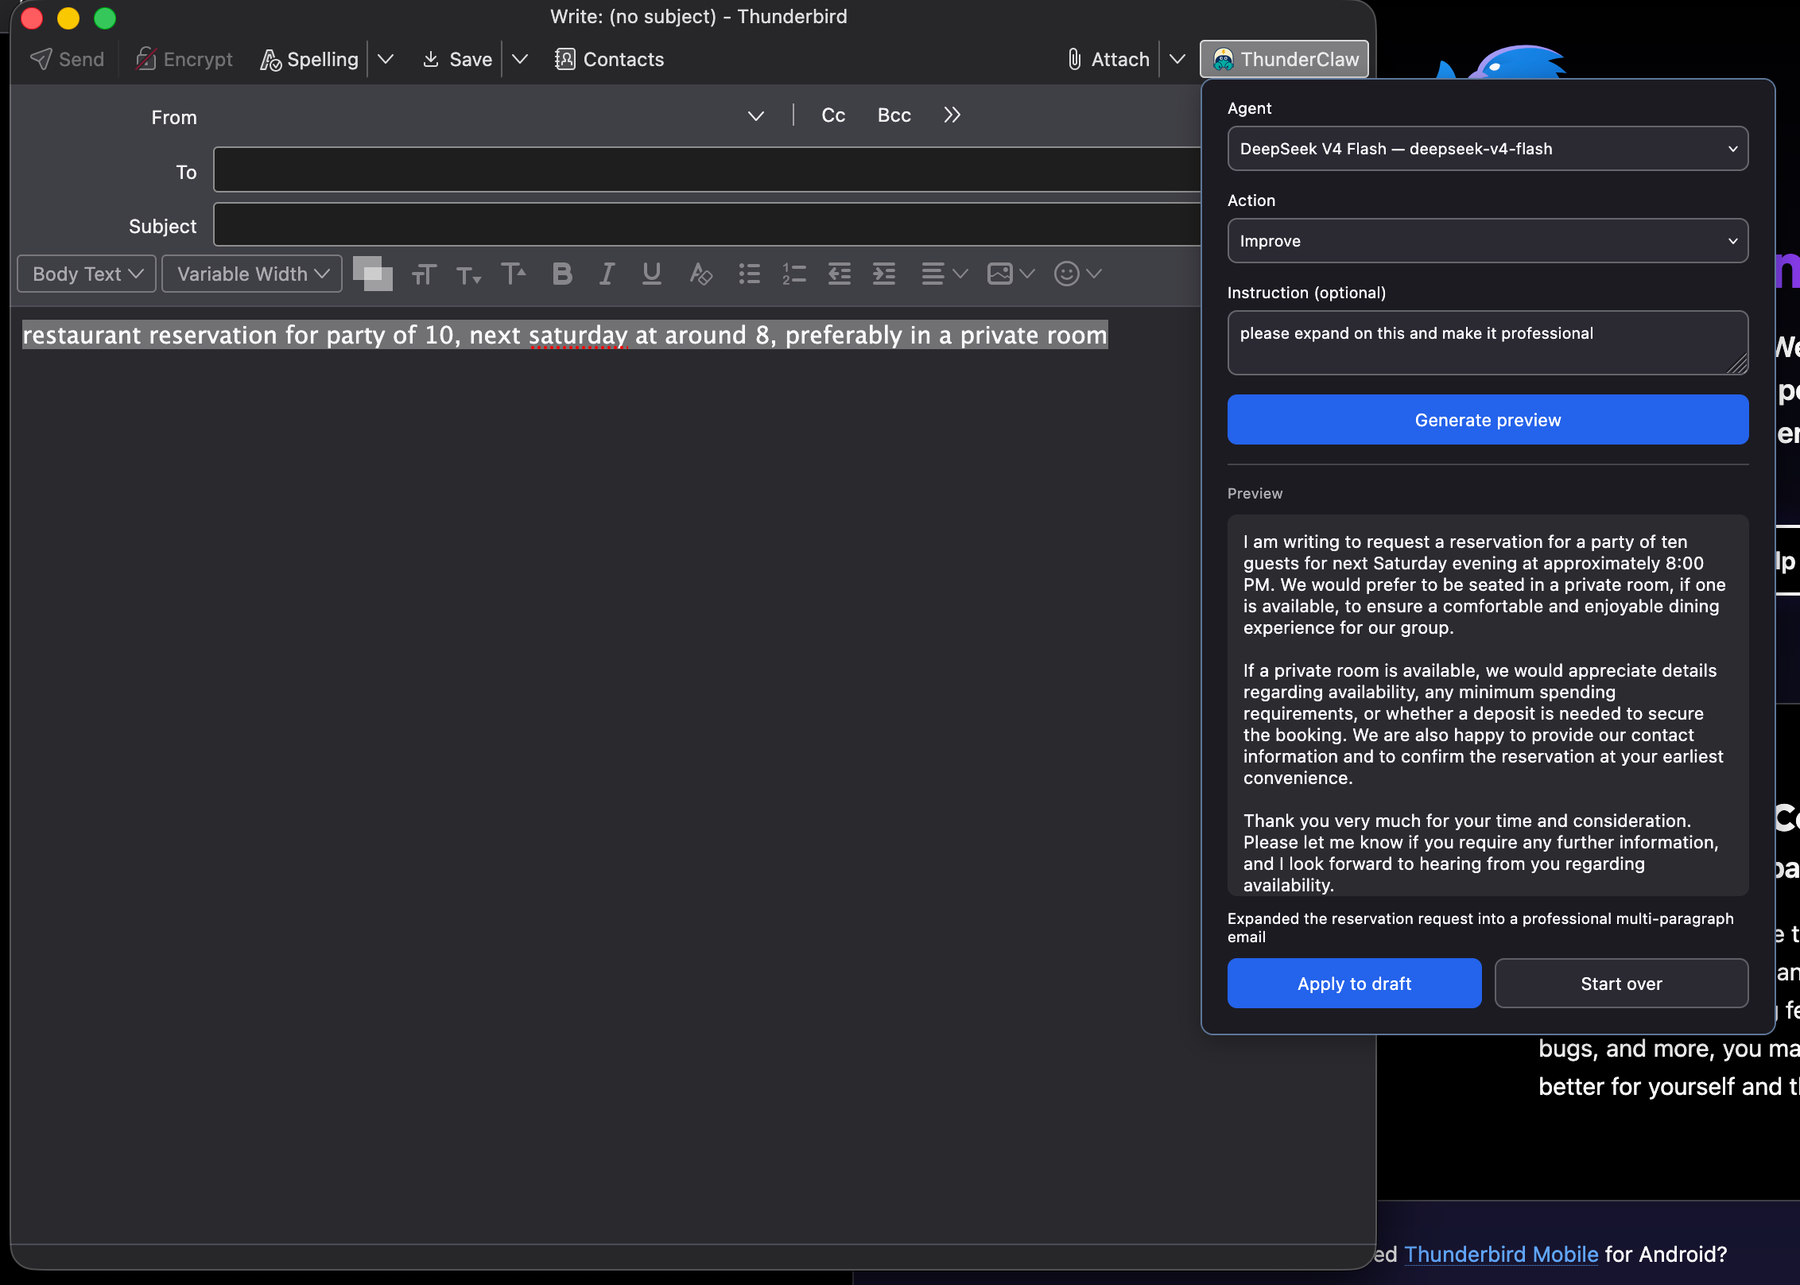
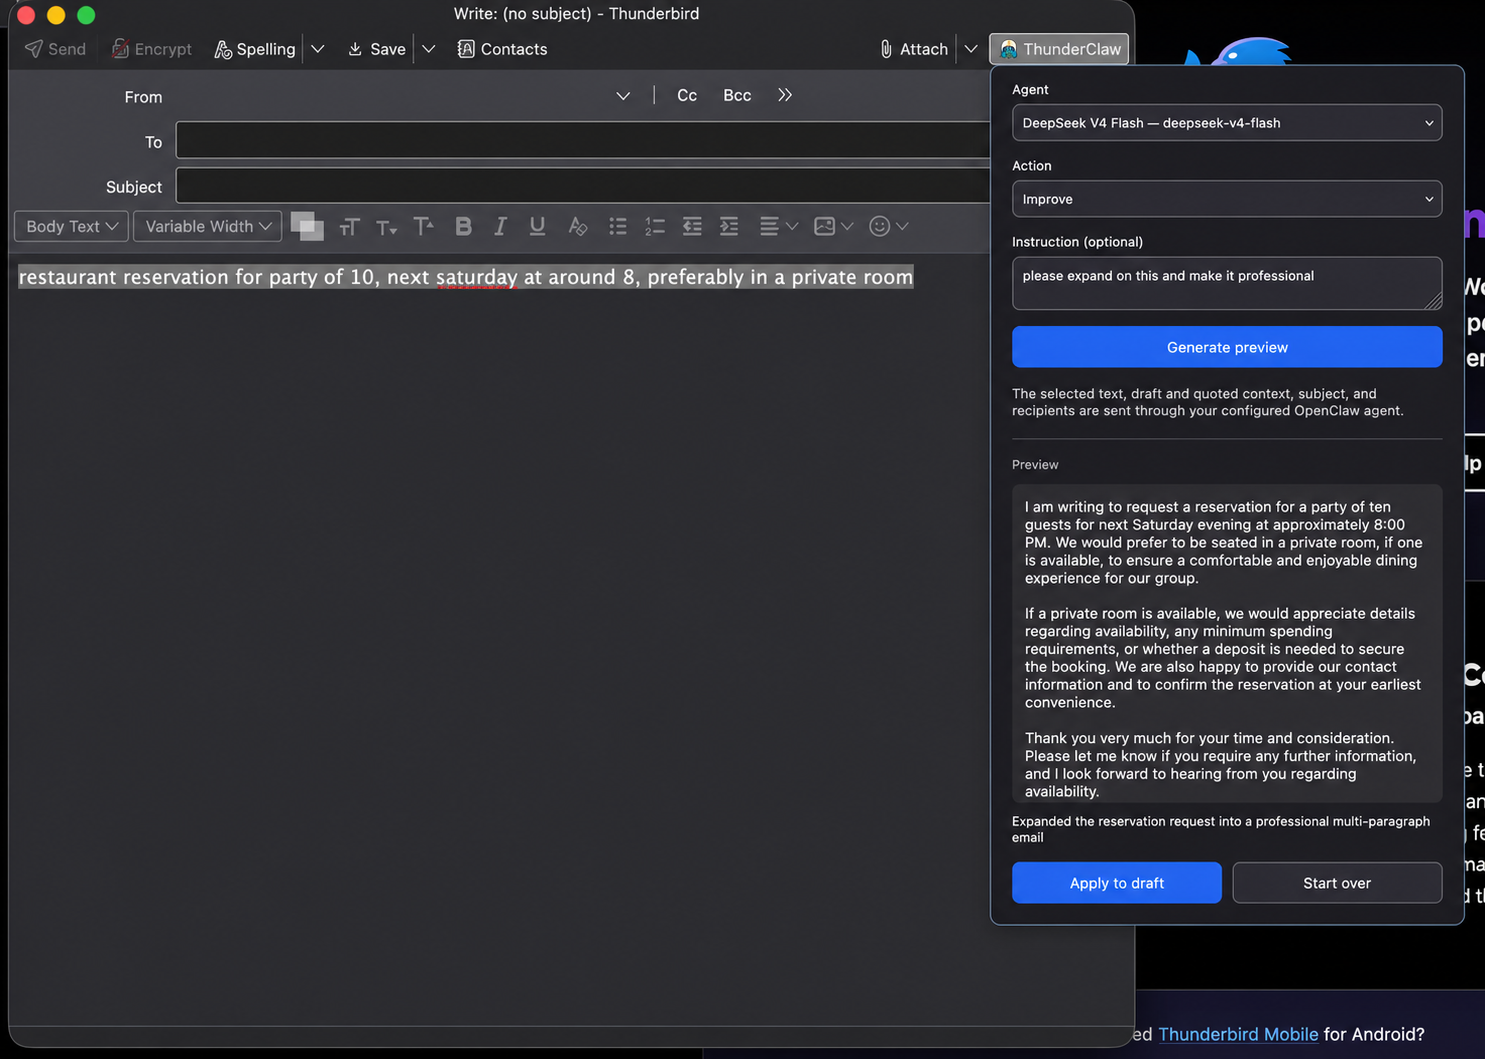
fix: prepare Thunderbird release disclosures

diff --git a/test/extension.test.ts b/test/extension.test.ts
@@ -11,13 +11,22 @@ test("Thunderbird extension declares compose and message-view boundaries", async
   assert.deepEqual([repositoryPackage.version, pluginPackage.version, extensionPackage.version],
     [manifest.version, manifest.version, manifest.version]);
   assert.equal(manifest.browser_specific_settings.gecko.id, "thunderclaw@addons.thunderbird.net");
-  assert.deepEqual(manifest.permissions.sort(), ["compose", "messagesRead", "scripting", "storage"]);
+  assert.deepEqual(manifest.permissions.sort(), ["compose", "messagesRead", "scripting", "sensitiveDataUpload", "storage"]);
   assert.deepEqual(manifest.optional_permissions, ["https://*/*", "http://127.0.0.1/*", "http://[::1]/*"]);
   assert.equal(manifest.permissions.some((value: string) => /^(?:https?|\*):/u.test(value)), false);
   assert.deepEqual(manifest.options_ui, { page: "options.html", open_in_tab: true });
   assert.equal(manifest.compose_action.default_popup, "popup.html");
   assert.equal(manifest.message_display_action.default_popup, "message-popup.html");
   assert.equal(manifest.compose_scripts, undefined, "Thunderbird 128 requires programmatic compose-script registration");
+});
+
+test("compose and message actions disclose their exact email-content transmission", async () => {
+  const composeMarkup = await readFile(new URL("../packages/thunderbird-extension/src/popup.html", import.meta.url), "utf8");
+  const messageMarkup = await readFile(new URL("../packages/thunderbird-extension/src/message-popup.html", import.meta.url), "utf8");
+  assert.match(composeMarkup,
+    /The selected text, draft and quoted context, subject, and recipients are sent through your configured OpenClaw agent\./u);
+  assert.match(messageMarkup,
+    /The displayed message text, subject, and author are sent through your configured OpenClaw agent\./u);
 });
 
 test("message-view translation mutates only captured text nodes and remains reversible", async () => {

diff --git a/site/index.html b/site/index.html
@@ -76,7 +76,7 @@
 
         <figure class="feature-shot feature-shot-wide">
           <div class="shot-frame shot-frame-dark">
-            <img src="./assets/screenshots/compose-preview.png" width="1800" height="1285" loading="lazy" alt="ThunderClaw showing an improved email in a preview beside a Thunderbird compose window">
+            <img src="./assets/screenshots/compose-preview.png" width="1485" height="1059" loading="lazy" alt="ThunderClaw showing an improved email in a preview beside a Thunderbird compose window">
           </div>
           <figcaption>
             <span>Write with confidence</span>
@@ -87,7 +87,7 @@
         <div class="reading-grid">
           <figure class="feature-shot">
             <div class="shot-frame">
-              <img src="./assets/screenshots/message-summary.png" width="900" height="1133" loading="lazy" alt="ThunderClaw displaying a summary above the original Thunderbird message">
+              <img src="./assets/screenshots/message-summary.png" width="1118" height="1407" loading="lazy" alt="ThunderClaw displaying a summary above the original Thunderbird message">
             </div>
             <figcaption>
               <span>Find the signal</span>
@@ -97,7 +97,7 @@
 
           <figure class="feature-shot">
             <div class="shot-frame">
-              <img src="./assets/screenshots/message-translation.png" width="900" height="1096" loading="lazy" alt="ThunderClaw displaying a French translation with a control to restore the original message">
+              <img src="./assets/screenshots/message-translation.png" width="1136" height="1384" loading="lazy" alt="ThunderClaw displaying a French translation with a control to restore the original message">
             </div>
             <figcaption>
               <span>Read across languages</span>

diff --git a/test/direct-client-artifact.test.ts b/test/direct-client-artifact.test.ts
@@ -86,7 +86,8 @@ test("built XPI contains only the runtime allowlist and a classic browser IIFE",
     permissions?: string[];
     compose_scripts?: unknown;
   };
-  assert.deepEqual([...(packagedManifest.permissions ?? [])].sort(), ["compose", "messagesRead", "scripting", "storage"]);
+  assert.deepEqual([...(packagedManifest.permissions ?? [])].sort(),
+    ["compose", "messagesRead", "scripting", "sensitiveDataUpload", "storage"]);
   assert.equal(packagedManifest.compose_scripts, undefined,
     "Thunderbird 128 does not support the manifest compose_scripts key");
   const packagedJavaScript = names.filter((name) => name.endsWith(".js"))

diff --git a/packages/thunderbird-extension/src/popup.html b/packages/thunderbird-extension/src/popup.html
@@ -24,6 +24,7 @@
       </select></label>
       <label>Instruction (optional)<textarea id="instruction" rows="2" placeholder="For example: make this warmer"></textarea></label>
       <button id="run" class="primary" disabled>Generate preview</button>
+      <p id="privacy-note"><small>The selected text, draft and quoted context, subject, and recipients are sent through your configured OpenClaw agent.</small></p>
       <section id="preview" hidden>
         <small>Preview</small>
         <div id="replacement"></div>

diff --git a/packages/thunderbird-extension/src/message-popup.html b/packages/thunderbird-extension/src/message-popup.html
@@ -38,7 +38,7 @@
         </div>
         <button id="dismiss">Dismiss result</button>
       </section>
-      <p id="privacy-note"><small>The displayed message text is sent through your configured OpenClaw agent.</small></p>
+      <p id="privacy-note"><small>The displayed message text, subject, and author are sent through your configured OpenClaw agent.</small></p>
       <p id="error" role="alert" hidden></p>
     </main>
     <script src="message-popup.js"></script>
